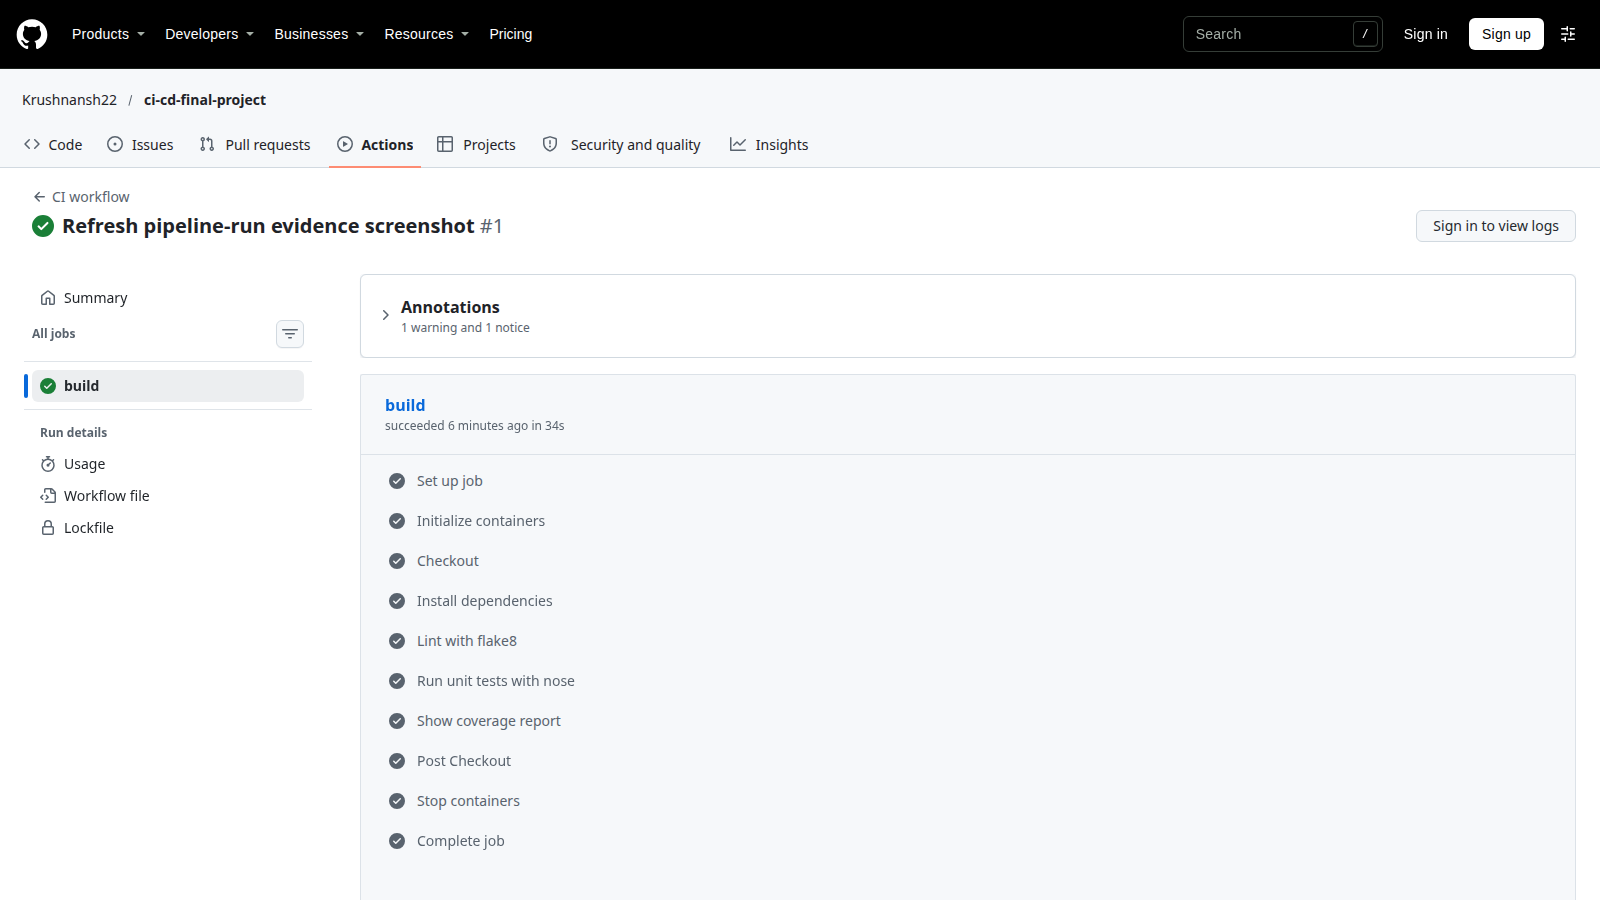
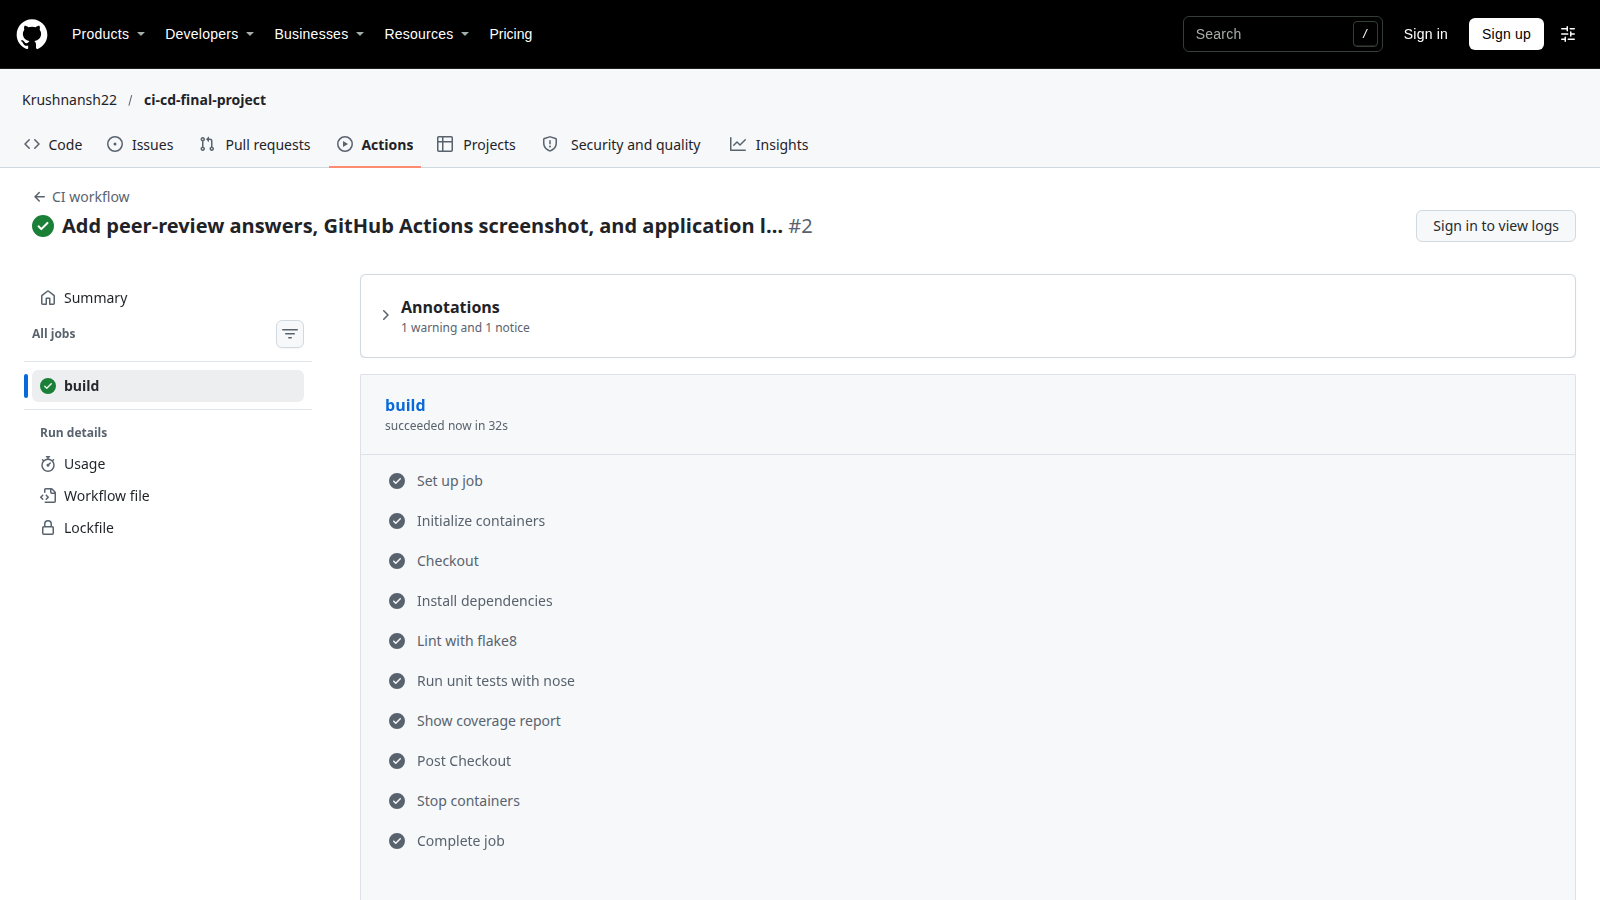
Update peer-review run link and screenshot

Changed region(s): [[0.0312, 0.2178, 0.5, 0.28], [0.2812, 0.4667, 0.3438, 0.4978]]

diff --git a/PEER_REVIEW_ANSWERS.md b/PEER_REVIEW_ANSWERS.md
@@ -171,10 +171,10 @@ Shows the `pipeline-workspace` PVC with:
 Real GitHub Actions job page for:
 
 ```text
-https://github.com/Krushnansh22/ci-cd-final-project/actions/runs/41989547014
+https://github.com/Krushnansh22/ci-cd-final-project/actions/runs/41990499065
 ```
 
-It shows the `build` job **succeeded in 34s**, with every step green:
+It shows the `build` job **succeeded in 32s**, with every step green:
 
 ```text
 Set up job
